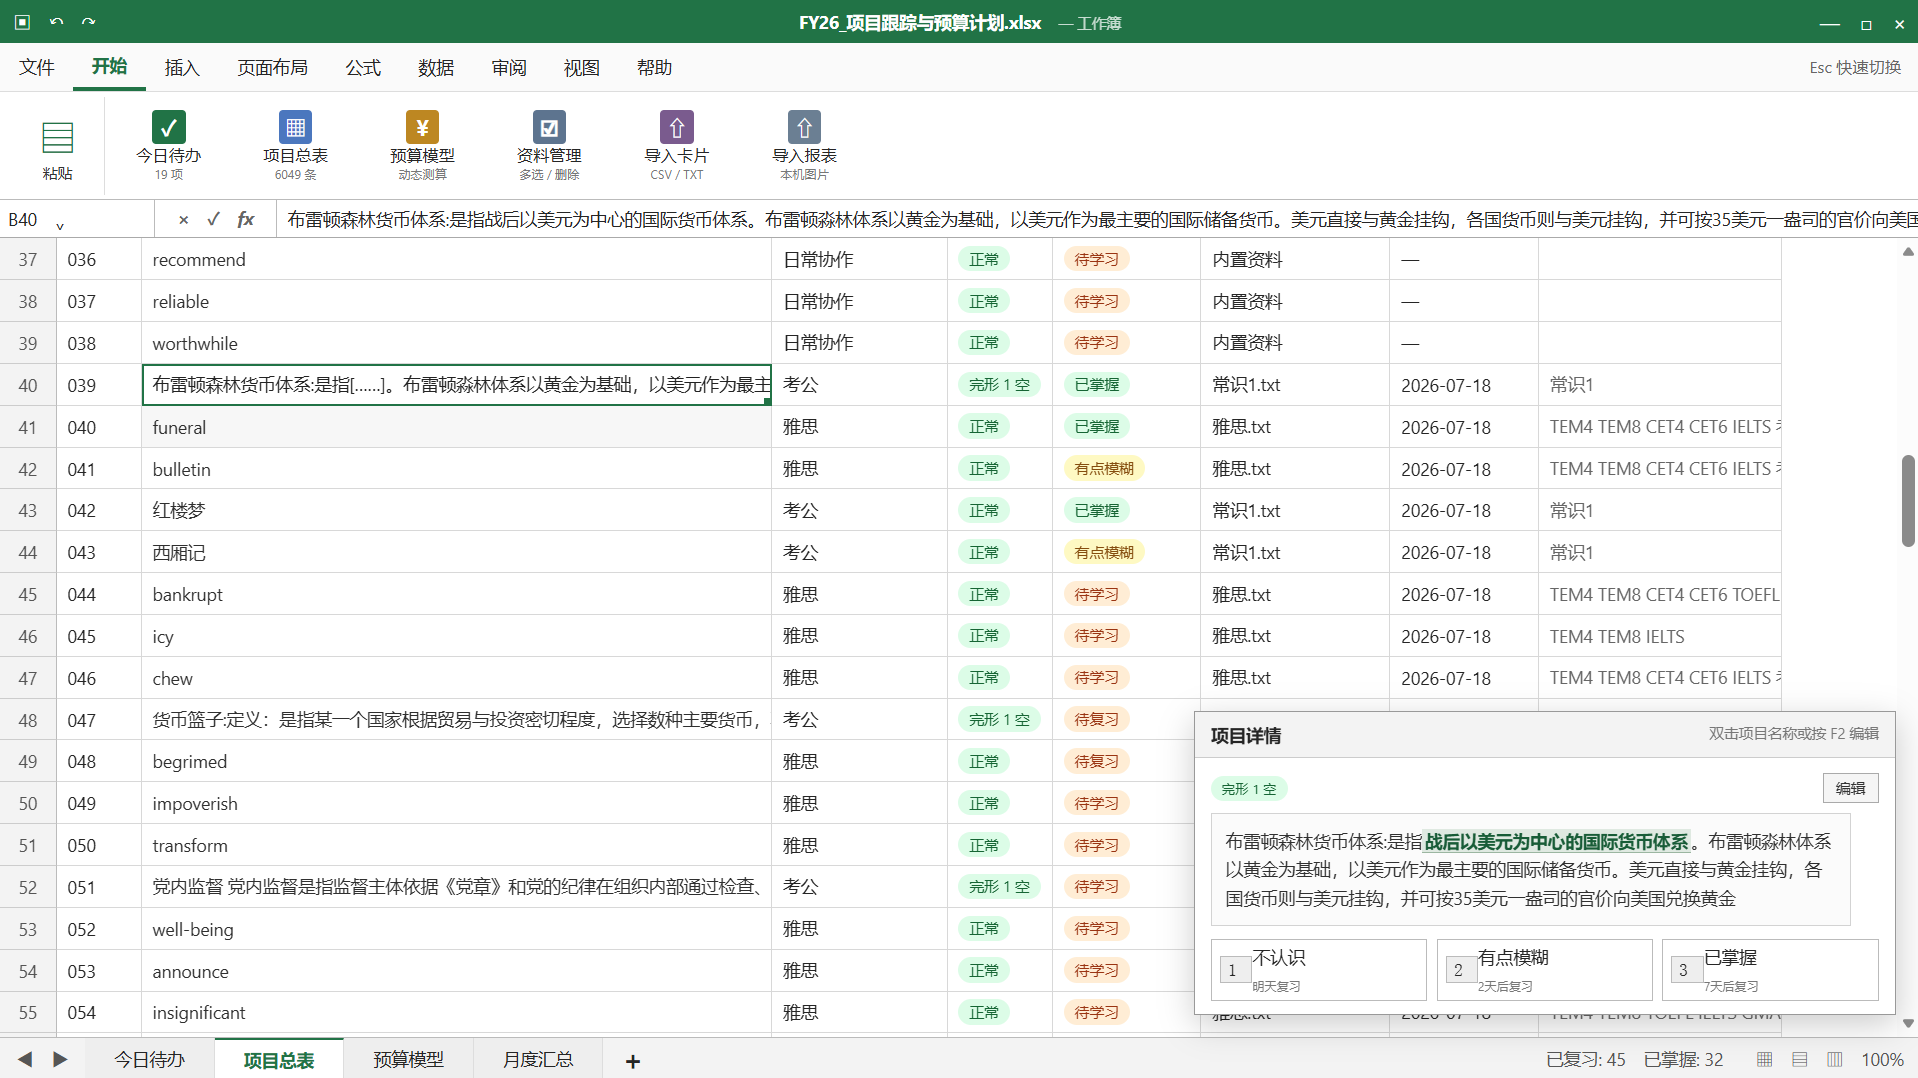
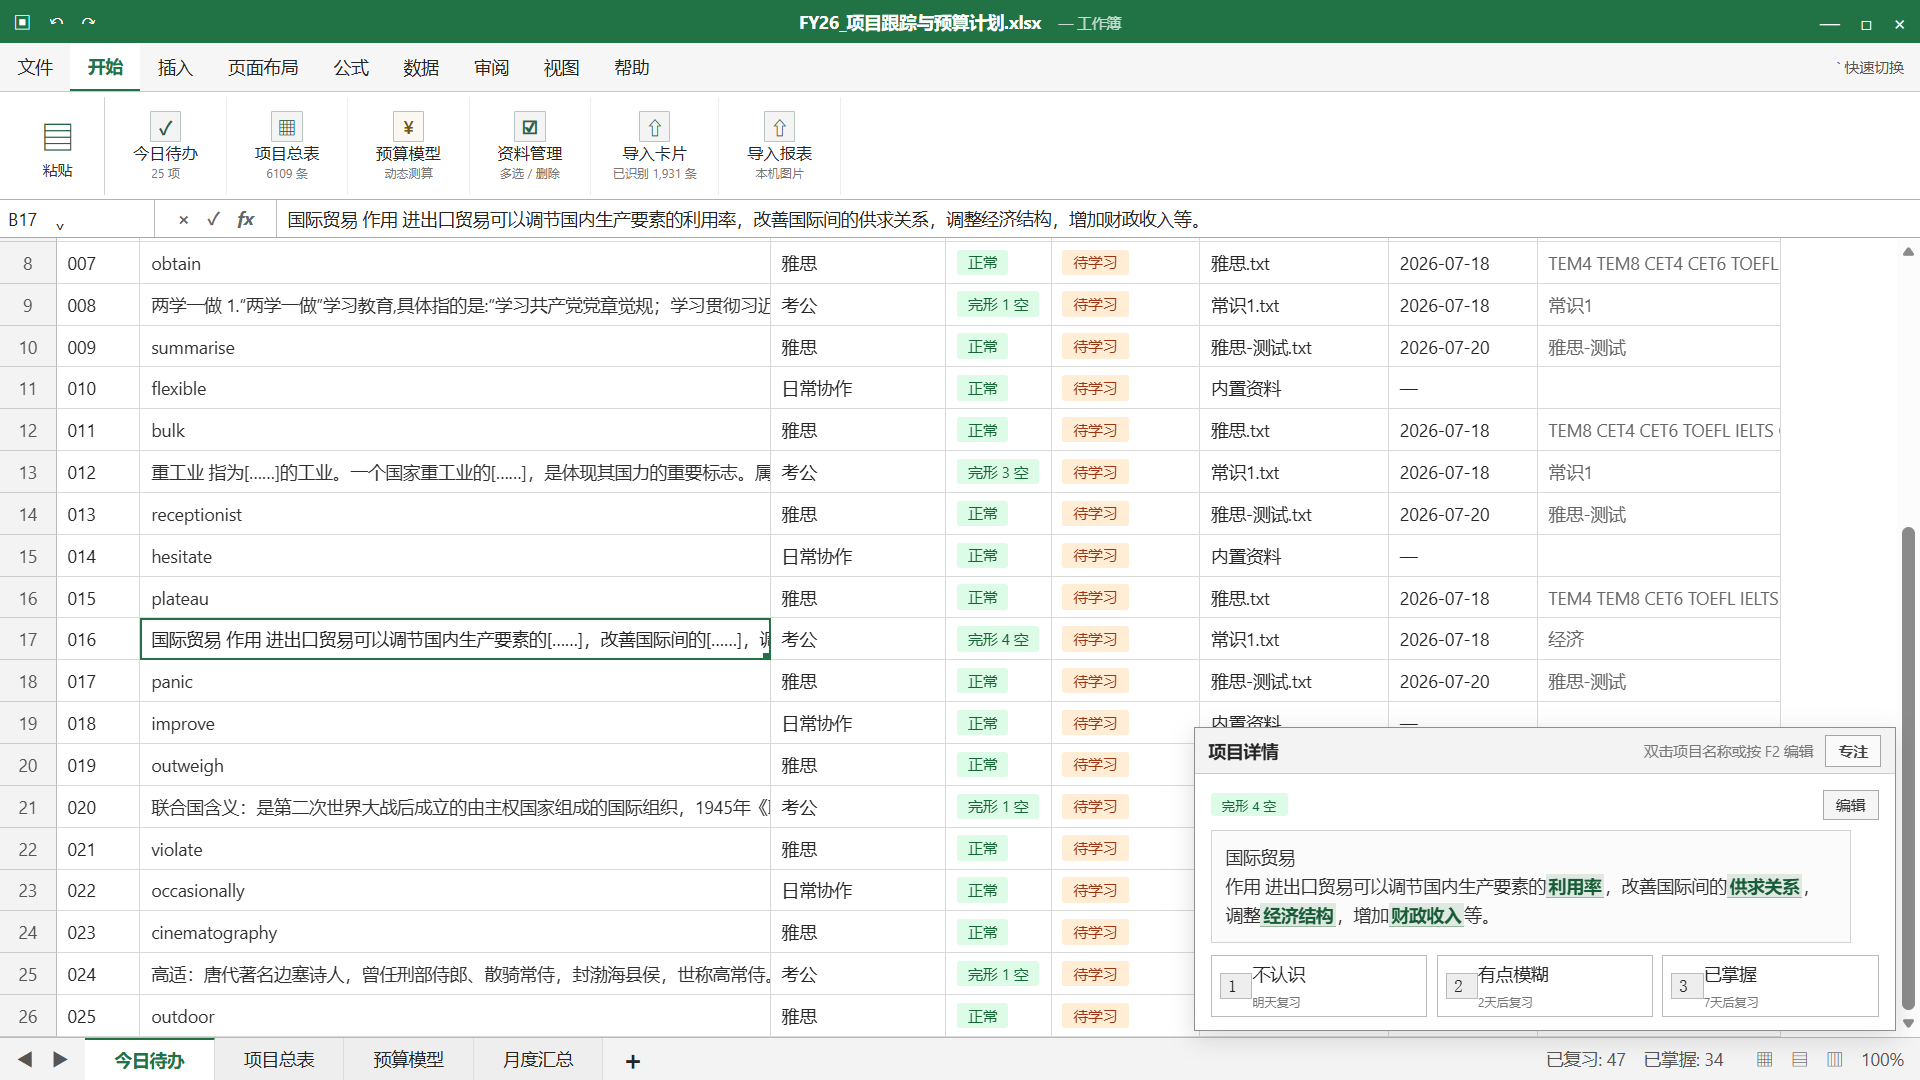
Add files via upload
Add Focus Mode.

Changed region(s): [[0.0, 0.0306, 1.0, 1.0], [0.4307, 0.0, 0.5845, 0.0306], [0.9536, 0.0306, 0.9844, 0.0918]]

diff --git a/manager.css b/manager.css
@@ -32,3 +32,44 @@
 .summary{height:48px;grid-template-columns:150px 150px 150px minmax(520px,1fr)}.summary>div{padding:5px 14px;display:flex;align-items:center;gap:10px}.summary small{font-size:11px;white-space:nowrap}.summary b{font-size:18px}.summary>div>span{display:none}.summary .planSettings p{margin:0;display:flex;align-items:center;gap:8px;min-width:0}.summary .planSettings{overflow:hidden}.summary .dataOverview p{margin:0;color:#555;font-size:11px;white-space:nowrap}.summary .dataOverview p b{font-size:13px;color:#185c37}
 .managebar{min-height:34px;height:34px;padding:3px 8px;flex-wrap:nowrap;overflow-x:visible;gap:5px}.managebar button,.managebar input{height:26px}.studySearchBox{height:27px;width:270px;flex:none}.studySearchBox input{height:25px}.batchFilterLabel,.dailyLimit,.reviewSetting{height:26px}.batchFilterLabel select,.reviewSetting select{height:26px}.pageControls{flex:none;margin-left:auto}.pageControls button{height:26px}
 @media(max-width:1280px){.managebar{overflow-x:auto}.summary{grid-template-columns:135px 135px 135px minmax(500px,1fr);overflow-x:auto}.summary .planSettings{overflow:visible}}
+/* UI v4: restrained desktop-spreadsheet styling. */
+html,body{font-family:Aptos,"Segoe UI","Microsoft YaHei UI","Microsoft YaHei",Arial,sans-serif}
+.tabs{background:#f6f6f6;border-bottom-color:#c9c9c9}
+.tabs button{padding:0 13px;border-radius:0}
+.tabs button.active{background:#fff;border-bottom-width:2px}
+.tabs #panic{font-size:11px;color:#555;padding-left:12px;padding-right:12px}
+.ribbon{background:#fff;border-bottom-color:#aeb2b5}
+.paste{font-size:25px;color:#20683f;border-right-color:#d0d0d0}
+.tools{gap:0}
+.tools button{min-width:90px;border-radius:0;border-right:1px solid #ededed}
+.tools button>b,.tools button:nth-child(n)>b{width:23px;height:23px;border-radius:1px;background:#f4f4f4;color:#2f5f45;border:1px solid #b8c7bd;font-size:14px;font-weight:600}
+.tools button:nth-child(3)>b{color:#765415;border-color:#cdbf9d;background:#faf8f1}
+.tools button:hover{background:#f3f3f3}
+.cell em,.answerOk,.answerMissing,.answerFormat,.detailStatus{border-radius:2px}
+.managebar button,.managebar input,.studySearchBox,.batchFilterLabel select,.reviewSetting select{border-radius:0}
+.review{border-color:#8f8f8f;box-shadow:0 5px 18px #00000025}
+.review>header{display:flex;align-items:center;padding:0 10px}
+.review>header small{float:none;margin-left:auto}
+.detailFocusToggle{height:24px;margin-left:9px;padding:0 9px;border:1px solid #a6a6a6;background:#fafafa;color:#444;cursor:pointer;font-size:11px}
+.detailFocusToggle:hover{border-color:#217346;background:#f3f8f4}
+.excel>footer button{border-radius:0}
+
+/* Detail focus mode keeps a thin workbook title while dedicating the sheet to review. */
+body.detailFocus .excel>.tabs,body.detailFocus .excel>.ribbon,body.detailFocus .excel>.formula,body.detailFocus .excel>footer{display:none}
+body.detailFocus .title{height:29px}
+body.detailFocus .workspace{min-height:0;background:#e7e7e7;padding:12px}
+body.detailFocus .sheet{padding:0;overflow:hidden;background:#f7f7f7;border:1px solid #b8b8b8}
+body.detailFocus .sheet>.headers,body.detailFocus .sheet>.summary,body.detailFocus .sheet>.managebar,body.detailFocus .sheet>.table{display:none}
+body.detailFocus .review{position:absolute;inset:0;width:auto;display:flex;flex-direction:column;border:0;box-shadow:none}
+body.detailFocus .review>header{height:36px;flex:none}
+body.detailFocus .review>.detailPane{flex:1;min-height:0;display:flex;flex-direction:column;padding:12px 14px!important}
+body.detailFocus .detailScroll{flex:1;max-height:none;min-height:0}
+body.detailFocus .detailText{font-size:14px;line-height:1.75;padding:12px 14px}
+body.detailFocus .detailPane>section,body.detailFocus .detailPane>.reveal{flex:none}
+@media(max-width:700px){body.detailFocus .workspace{padding:5px}body.detailFocus .review>header small{display:none}}
+
+/* Keep management/import ribbon icons in the same restrained Excel palette. */
+.tools #manageCards b,.tools button#importAnki b,.tools button#importCover b{background:#f4f4f4;color:#2f5f45;border-color:#b8c7bd}
+
+/* Align the floating detail pane more closely with the worksheet status bar. */
+.review{bottom:36px}

diff --git a/study-v3.js b/study-v3.js
@@ -115,4 +115,45 @@ addEventListener("keydown",e=>{if(document.querySelector("dialog[open]"))return;
 document.querySelectorAll("[data-view]").forEach(b=>b.addEventListener("click",()=>{if(b.dataset.view==="review")filter="全部";window.qsManageMode=false;window.qsSyncManageButton&&window.qsSyncManageButton();window.studySearchQuery="";window.qsSelectedBatch="";studySelection.clear();selected=0;studyPage=0;revealed=false;setTimeout(render,0)}));
 const manage=document.getElementById("manageCards");if(manage)manage.addEventListener("click",()=>setTimeout(render,0));
 render();
+
+/* UI v4: laptop-friendly quick switch and an optional detail focus mode. */
+let detailFocus=false;
+function setDetailFocus(enabled){
+ detailFocus=Boolean(enabled)&&!cover&&view!=="game";
+ document.body.classList.toggle("detailFocus",detailFocus);
+ decorateDetail();
+}
+function decorateDetail(){
+ const header=ws.querySelector(".review>header"),pane=ws.querySelector(".review>.detailPane");if(!header||!pane)return;
+ let button=header.querySelector("#detailFocusToggle");
+ if(!button){
+  button=document.createElement("button");button.id="detailFocusToggle";button.className="detailFocusToggle";
+  button.type="button";button.addEventListener("click",()=>setDetailFocus(!detailFocus));header.appendChild(button);
+ }
+ const label=detailFocus?"\u8fd4\u56de\u8868\u683c":"\u4e13\u6ce8";if(button.textContent!==label)button.textContent=label;
+ button.title=detailFocus?"\u6062\u590d\u5b8c\u6574\u5de5\u4f5c\u8868":"\u4ec5\u663e\u793a\u9879\u76ee\u8be6\u60c5";
+}
+function quickSwitch(){
+ setDetailFocus(false);cover=!cover;render();
+}
+const panicButton=document.getElementById("panic");
+if(panicButton){
+ panicButton.textContent="\u0060 \u5feb\u901f\u5207\u6362";
+ panicButton.title="\u6309\u952e\u76d8\u5de6\u4e0a\u89d2\u3001\u6570\u5b57 1 \u5de6\u4fa7\u7684\u53cd\u5f15\u53f7\u952e\u5feb\u901f\u5207\u6362";
+ panicButton.onclick=quickSwitch;
+}
+new MutationObserver(decorateDetail).observe(ws,{childList:true,subtree:true});
+decorateDetail();
+addEventListener("keydown",e=>{
+ if(document.querySelector("dialog[open]")){if(e.key==="Escape"||e.code==="Backquote")e.stopImmediatePropagation();return}
+ if(e.code==="Backquote"&&!e.ctrlKey&&!e.altKey&&!e.metaKey){
+  e.preventDefault();e.stopImmediatePropagation();quickSwitch();return;
+ }
+ if(e.key==="Escape"){
+  e.stopImmediatePropagation();
+  if(detailFocus){e.preventDefault();setDetailFocus(false)}
+ }
+},true);
+document.querySelectorAll("[data-view]").forEach(button=>button.addEventListener("click",()=>setDetailFocus(false)));
+document.getElementById("coverTab")?.addEventListener("click",()=>setDetailFocus(false));
 })();

diff --git a/index.html b/index.html
@@ -1,6 +1,6 @@
-<!doctype html><html lang="zh-CN"><head><meta charset="utf-8"><meta name="viewport" content="width=device-width,initial-scale=1"><meta name="description" content="Quiet Sheet：Excel 风格的本地学习工作台，支持单词学习、Anki 文本导入和预算合并小游戏。"><meta property="og:title" content="Quiet Sheet｜Excel 风格学习工作台"><meta property="og:description" content="支持 Anki 文本导入、学习进度本地保存和预算合并小游戏。"><meta property="og:type" content="website"><meta name="theme-color" content="#217346"><title>项目跟踪与预算计划</title><link rel="stylesheet" href="demo.css?v=10"><link rel="stylesheet" href="enhancements.css?v=7"><link rel="stylesheet" href="manager.css?v=11"></head><body>
+<!doctype html><html lang="zh-CN"><head><meta charset="utf-8"><meta name="viewport" content="width=device-width,initial-scale=1"><meta name="description" content="Quiet Sheet：Excel 风格的本地学习工作台，支持单词学习、Anki 文本导入和预算合并小游戏。"><meta property="og:title" content="Quiet Sheet｜Excel 风格学习工作台"><meta property="og:description" content="支持 Anki 文本导入、学习进度本地保存和预算合并小游戏。"><meta property="og:type" content="website"><meta name="theme-color" content="#217346"><title>项目跟踪与预算计划</title><link rel="stylesheet" href="demo.css?v=10"><link rel="stylesheet" href="enhancements.css?v=7"><link rel="stylesheet" href="manager.css?v=14"></head><body>
 <main class="excel"><header class="title" id="titlebar" title="双击切换全屏"><span>▣　↶　↷</span><b id="workbookName" title="右键修改工作簿名称">FY26_项目跟踪与预算计划.xlsx　<small>— 工作簿</small></b><span>—　□　×</span></header>
-<nav class="tabs"><button>文件</button><button class="active">开始</button><button>插入</button><button>页面布局</button><button>公式</button><button>数据</button><button>审阅</button><button>视图</button><button>帮助</button><i></i><button id="panic">Esc 快速切换</button></nav>
+<nav class="tabs"><button>文件</button><button class="active">开始</button><button>插入</button><button>页面布局</button><button>公式</button><button>数据</button><button>审阅</button><button>视图</button><button>帮助</button><i></i><button id="panic" title="按键盘左上角、数字 1 左侧的反引号键快速切换">&#96; 快速切换</button></nav>
 <section class="ribbon"><div class="paste">▤<small>粘贴</small></div><div class="format"><span>等线　⌄　　11　⌄</span><b>B　<i>I</i>　<u>U</u>　▦　▰　A</b><small>字体</small></div><div class="format"><span>≡　≣　≡　↧</span><b>≡　☰　≣　⇥</b><small>对齐方式</small></div><div class="tools"><button data-view="review"><b>✓</b>今日待办<small id="due">38 项</small></button><button data-view="library"><b>▦</b>项目总表<small>38 条</small></button><button data-view="game"><b>¥</b>预算模型<small>动态测算</small></button><button id="manageCards" title="多选、修改分类或删除已导入的卡片"><b>☑</b>资料管理<small>多选 / 删除</small></button><button id="importAnki" title="导入 Anki 导出的文本卡片"><b>⇧</b>导入卡片<small id="importState" aria-live="polite">CSV / TXT</small></button><button id="importCover" title="点击替换；右键恢复默认"><b>⇧</b>导入报表<small id="coverState">本机图片</small></button></div></section>
 <div class="formula"><span id="cell">B2　⌄</span><b>×　✓　<i>fx</i></b><p id="formula">agenda</p></div><section class="workspace" id="workspace"></section>
-<footer><span>◀　▶</span><button data-view="review" class="active">今日待办</button><button data-view="library">项目总表</button><button data-view="game">预算模型</button><button id="coverTab">月度汇总</button><b>＋</b><i></i><span id="status">已复习: 0　已掌握: 0</span><span>▦　▤　▥　100%</span></footer></main><input id="coverFile" type="file" accept="image/png,image/jpeg,image/webp" hidden><input id="ankiFile" type="file" accept=".csv,.tsv,.txt,text/plain,text/csv" hidden><dialog id="ankiDialog" class="importDialog"></dialog><script src="demo.js?v=12"></script><script src="enhancements.js?v=5"></script><script src="manager.js?v=6"></script><script src="import-v3.js?v=5"></script><script src="study-v3.js?v=10"></script></body></html>
+<footer><span>◀　▶</span><button data-view="review" class="active">今日待办</button><button data-view="library">项目总表</button><button data-view="game">预算模型</button><button id="coverTab">月度汇总</button><b>＋</b><i></i><span id="status">已复习: 0　已掌握: 0</span><span>▦　▤　▥　100%</span></footer></main><input id="coverFile" type="file" accept="image/png,image/jpeg,image/webp" hidden><input id="ankiFile" type="file" accept=".csv,.tsv,.txt,text/plain,text/csv" hidden><dialog id="ankiDialog" class="importDialog"></dialog><script src="demo.js?v=12"></script><script src="enhancements.js?v=5"></script><script src="manager.js?v=6"></script><script src="import-v3.js?v=5"></script><script src="study-v3.js?v=11"></script></body></html>

diff --git a/README.md b/README.md
@@ -4,7 +4,7 @@
 
 支持导入 Anki 导出的 TXT 文件，以及自定义 CSV、TSV、TXT 文件。无需注册账号，学习资料和进度默认保存在当前浏览器本机。
 
-> 当前版本：v1.0 Beta（2026-07-19）
+> 当前版本：v1.01 Beta（2026-07-20），增加专注功能、`快速切换按钮。
 
 ## 界面预览
 
@@ -12,28 +12,25 @@
 
 ## 主要功能
 
-- 电子表格风格界面、紧凑功能区和全屏显示（双击顶部）
-- 工作簿名称可在本机自定义（右键顶部名称）
-- “今日待办”只显示到期复习与每日新卡，评估后自动移出
-- 可按导入批次选择学习范围，并分别保存顺序或随机学习方式
-- “项目总表”支持搜索、编辑、分类、批量选择和删除
-- 支持 Anki 导出的 TXT，以及通用 CSV、TSV 导入、表头识别和字段映射
-- 12MB 以上大文件提示，最大支持 50MB，并显示读取、解析和记录数量状态
-- 自动识别 Anki 导出文件中的 GUID、笔记类型、牌组、标签等列元数据
-- 支持 `{{c1::答案}}` 完形填空语法；每条源笔记只生成一张学习卡
-- 支持段落、列表、表格、Ruby 注音、上下标、代码块和公式源码的轻量文本转换
-- 自动清理媒体引用、外部样式和常见 HTML 标签
-- 每次导入保存文件批次，可筛选或一键删除整个批次
-- 可拖动并自动保存表格列宽
-- 本地保存学习进度、导入卡片和小游戏最高分
-- 支持自定义 PNG、JPG 或 WebP 工作报表封面
+- 电子表格风格界面
+  - 全屏显示（双击顶部）、一键切换工作报表页面
+  - 工作簿名称可在本机自定义（右键顶部名称）
+  - 支持自定义 PNG、JPG 或 WebP 工作报表封面
+
+- 学习资料导入器
+  - 支持 Anki 卡组导出的 TXT，以及通用 CSV、TSV 导入。每次导入显示读取、解析和记录数量状态
+  - 自动识别 Anki 导出文件中的 GUID、笔记类型、牌组、标签等列元数据，支持 `{{c1::答案}}` 完形填空语法
+  - 可开启专注模式
+  - “今日待办”只显示到期复习与每日新卡，评估后自动移出。可按导入批次选择学习范围，并分别保存顺序或随机学习方式
+
+- 内置2048小游戏
 - 完全静态，不需要服务器或数据库
 
 ## 本地使用
 
 请下载整个 `excel-learning-demo` 文件夹，然后双击 `index.html`。不要只复制 HTML 文件，因为页面还需要同目录中的 CSS 和 JavaScript 文件。
 
-推荐使用最新版 Chrome 或 Microsoft Edge 桌面浏览器。当前版本主要面向桌面端，暂未针对手机屏幕进行完整适配。
+推荐使用最新版 Chrome 或 Microsoft Edge 桌面浏览器。当前版本主要面向桌面使用场景，未针对手机屏幕进行完整适配。
 
 更新后如果仍显示旧界面，请按 `Ctrl + F5` 强制刷新。
 
@@ -57,7 +54,8 @@
 
 旧版本已经导入的卡片没有保存原文件名，会统一显示为“历史导入”。新版本之后的每次导入会单独记录。
 
-自定义导入文件必须至少包含正面（问题）和背面（答案）两列，并使用 UTF-8 编码保存。
+普通问答资料通常需要“正面（问题）”和“背面（答案）”两列；使用 `{{c1::答案}}` 语法的完形填空资料可以只包含正文一列。文件应使用 UTF-8 编码保存。
+
 
 ## 今日待办
 
@@ -66,7 +64,7 @@
 - 已到复习日期的卡片
 - 当日新卡，默认上限为 20 张，可在页面中调整
 
-完成一次评估后，卡片会从当天列表移出，并按照选择安排到 1、2 或 7 天后复习。每日新卡额度会扣除当天已经首次学习的新卡，不会在完成后自动补满。
+完成一次评估后，卡片会从当天列表移出，并按照选择安排到 1、2 或 7 天后复习。每日新卡额度会扣除当天已经首次学习的新卡，不会在完成后自动补满。可针对导入批次选择今日待办的抽取顺序。
 
 ## 数据与隐私
 
@@ -81,8 +79,7 @@
 - 暂不支持朗读、图片、音频或视频
 - 只有媒体而没有有效文字的记录会在预览中标记并跳过
 - 数据不支持跨浏览器或跨设备自动同步
-- 完形填空笔记目前每条源笔记只生成一张学习卡
-- 当前版本主要面向桌面端
+- 12MB 以上大文件提示，最大只支持 50MB
 
 ## 版权与使用
 